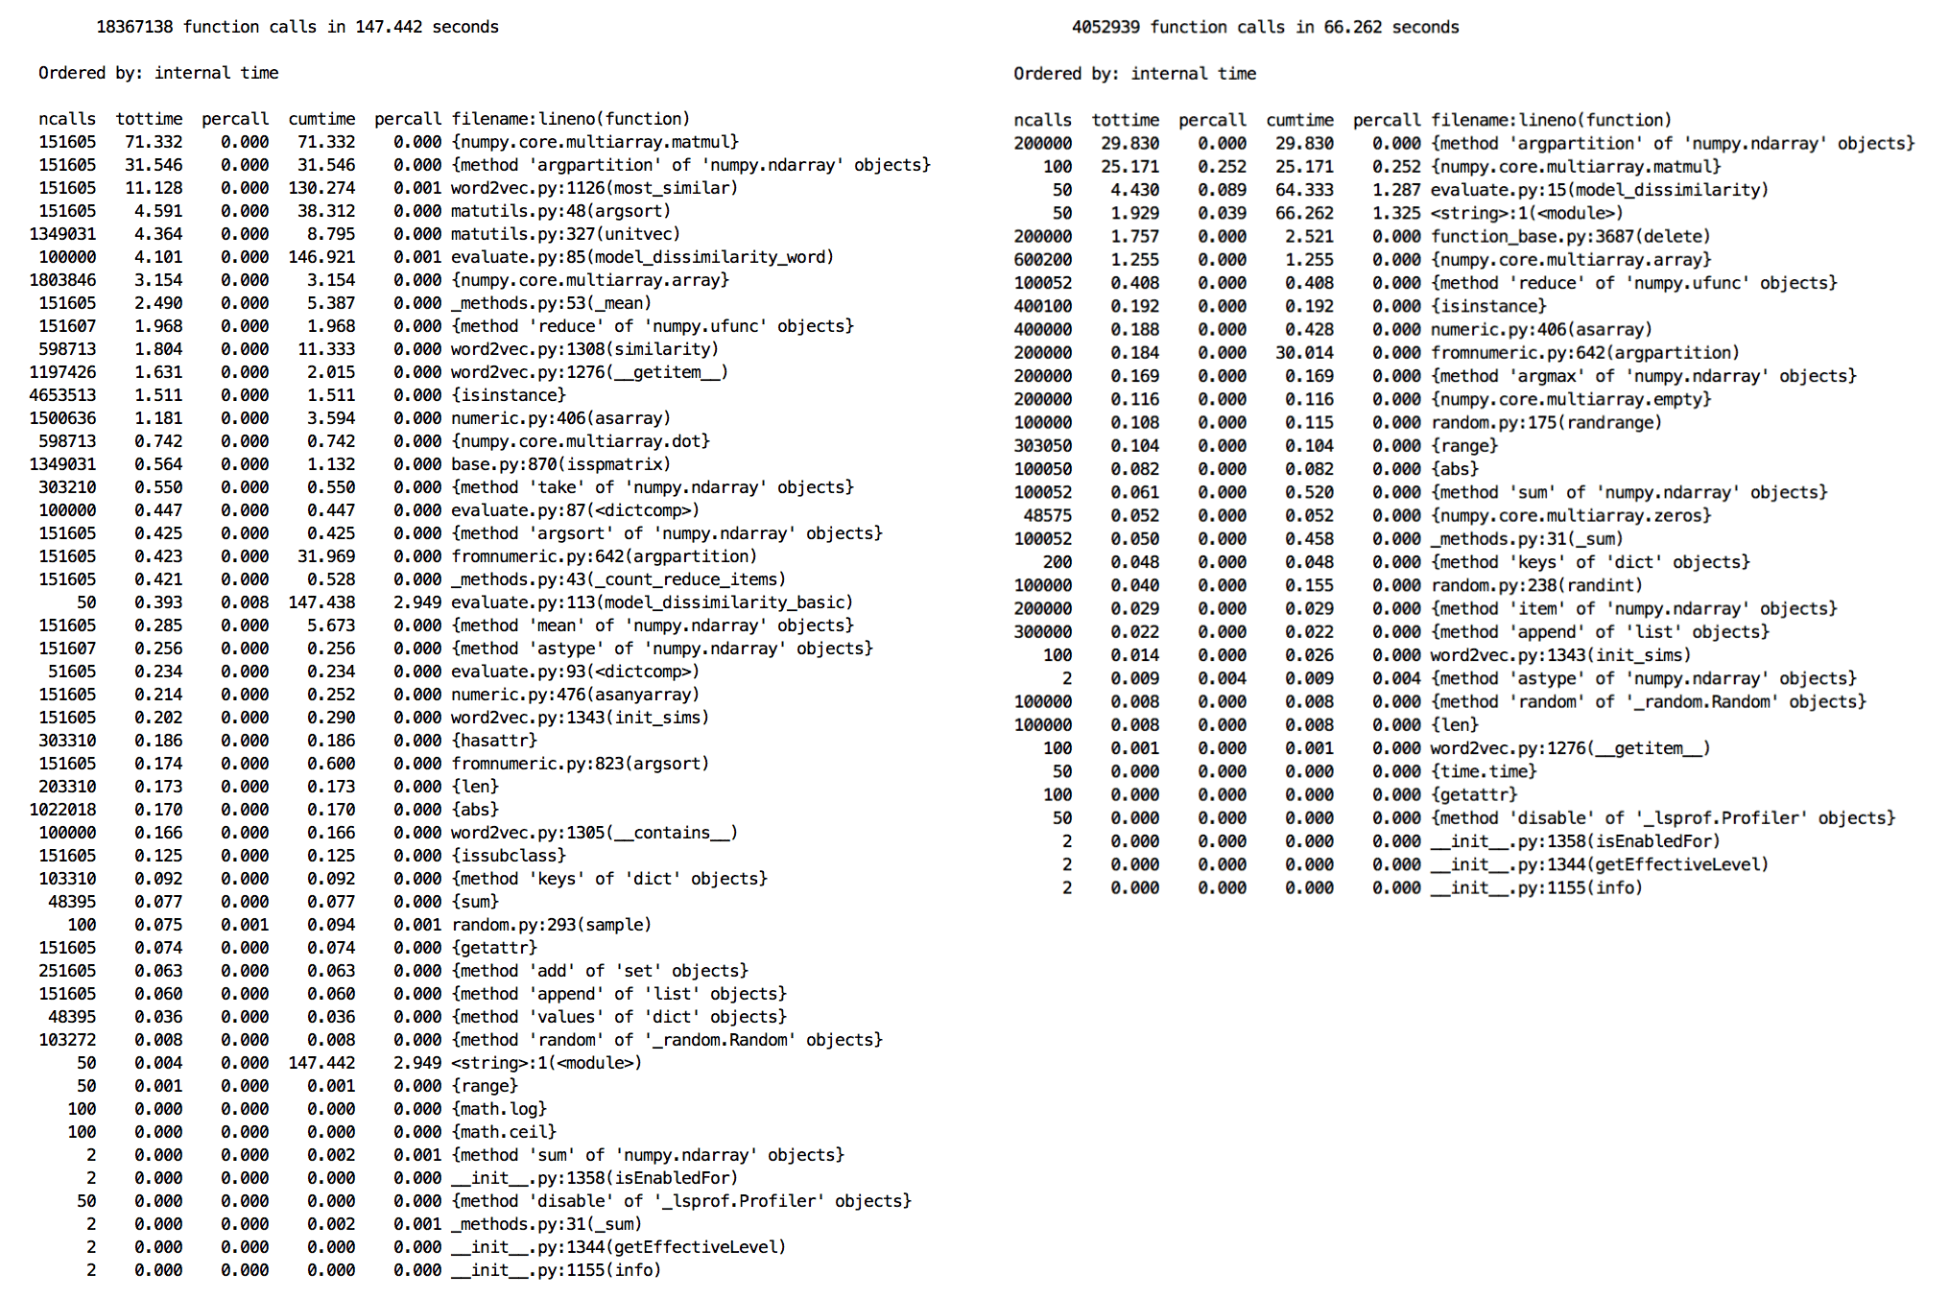
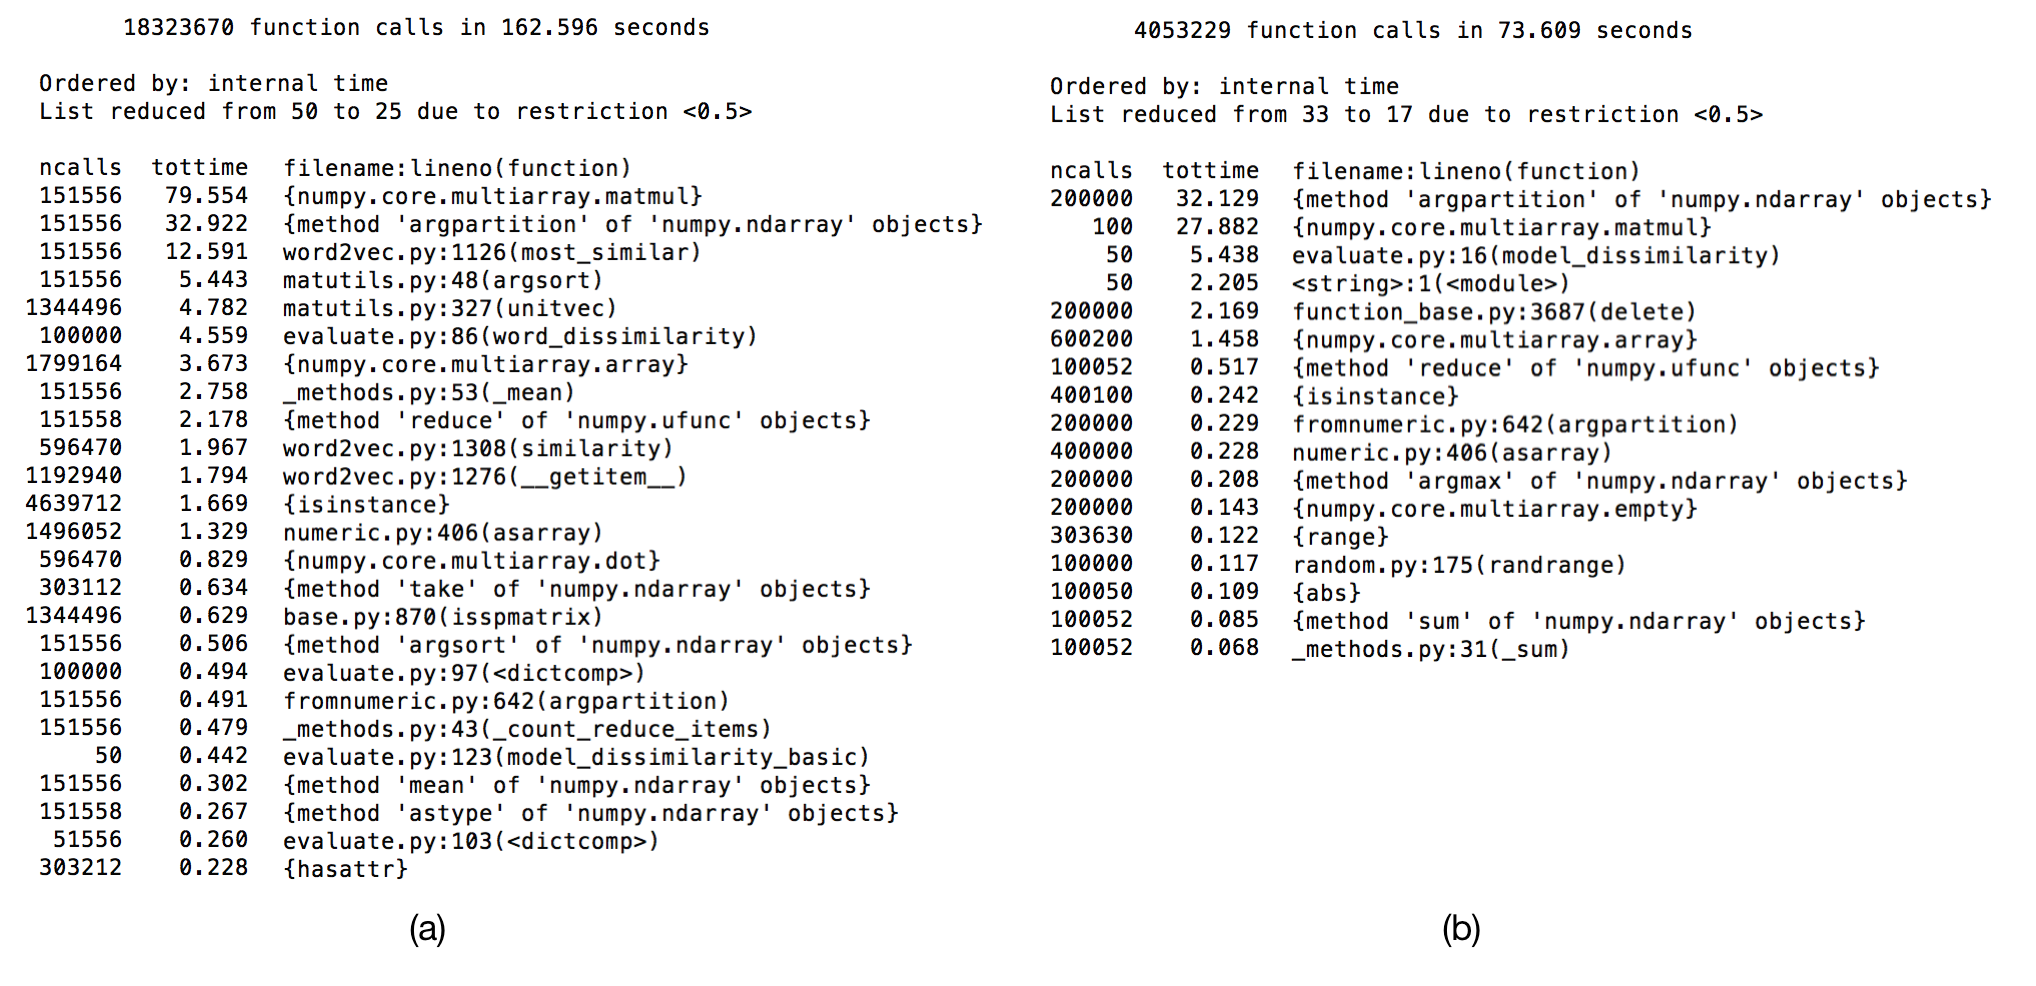
updates benchmark image, word2vec post

Changed region(s): [[0.0, 0.0, 0.4923, 1.0], [0.4923, 0.0, 0.9846, 0.6998], [0.7077, 0.9128, 0.7385, 0.9736]]

diff --git a/_posts/2016-02-23-project-gutenberg-word2vec.md b/_posts/2016-02-23-project-gutenberg-word2vec.md
@@ -98,11 +98,11 @@ These calculations are performed once for calculating `topn` similar words for e
 `np.matmul` works in such a manner, that a single, large matrix multiplication (for calculating similarity scores for all `S x V` word pairs) takes significantly less time than calculating similarity scores for each word in `S` individually. Hence, I implemented a vectorized version of the algorithm described above, where I calculate similarity scores for the sampled words with respect to the model vocabulary in a single matrix multiplication. I ran a simple profiling of both methods over 50 iterations, computing similarity between two models (vocabulary sizes 15073 and 17011) for `topn = 2000` , and the total times are shown below:
 
 <figure>
-    <img src="/images/posts/w2vec/benchmarks.png" style="transition: -webkit-transform 0.25s ease; -webkit-transform: scale(1.1)">
-    <figcaption>How similarity between two models m1 and m2 is calculated for a particular word</figcaption>
+  <img src="/images/posts/w2vec/benchmarks.png" data-zoom-image="/images/posts/w2vec/benchmarks.png" style="transition: -webkit-transform 0.25s ease; -webkit-transform: scale(1.1);">
+  <figcaption>Profiling for the (a) non-vectorized approach using gensim and (b) optimized approach using numpy</figcaption>
 </figure>
 
-We see that `np.matmul (numpy.core.multiarray.matmul)` takes almost thrice the time in the first case than in the second. The number of times `np.matmul` is being called is also very different - it is called twice in each iteration for the vectorized method, and an average of ~3k times per iteration for the naive method.
+We see that `np.matmul (numpy.core.multiarray.matmul)` takes almost thrice the time in the first case (79.554s) than in the second (27.882s). The number of times `np.matmul` is being called is also very different - it is called twice in each iteration for the vectorized method, and an average of ~3k times per iteration for the naive method.
 Of course, the size of the matrices being multiplied is very different - the vectorized approach involves two multiplications of matrices with dimensions `V x N` and `N x topn`, the gensim approach around 3k multiplications of matrices with dimensions `V x N` and `N x 1`. 
 
 The vectorized approach actually involves a higher number of computations - this is because in the naive method, `model.most_similar` is only called in case the word is present in the model, hence avoiding a few multiplications. However, despite the higher number of computations, numpy seems to perform a large matrix multiplication much faster than a large number of smaller matrix multiplications. This seems like another interesting tidbit to find out more about, and I might look into this later. On a related note, `np.argpartition` (method for partially sorting an array, taking a significant chunk of time) seems to work the other way round - running it on a single large matrix took significantly more time than running it on the individual rows of the matrix. 
